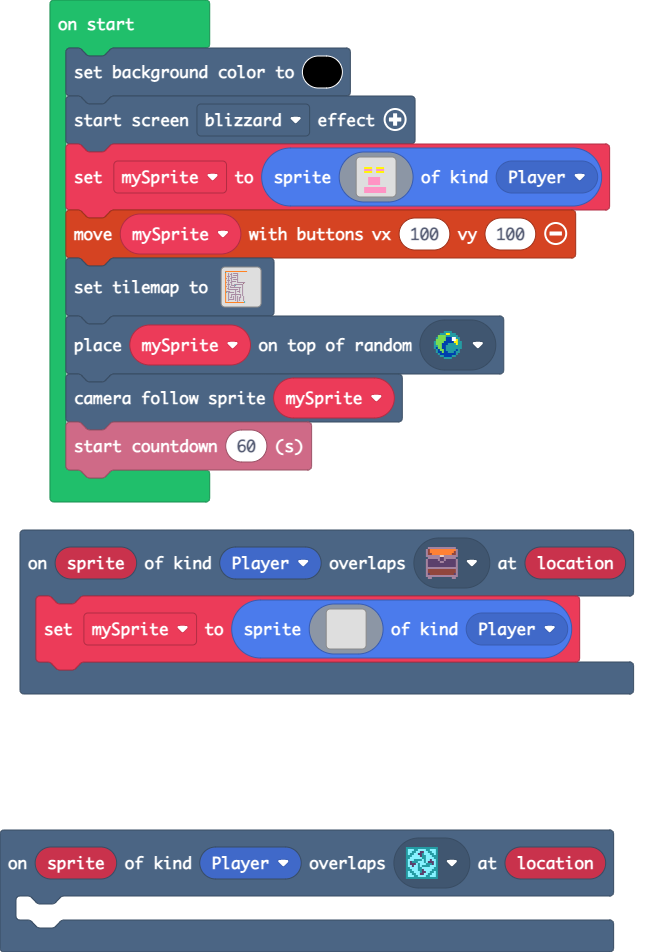
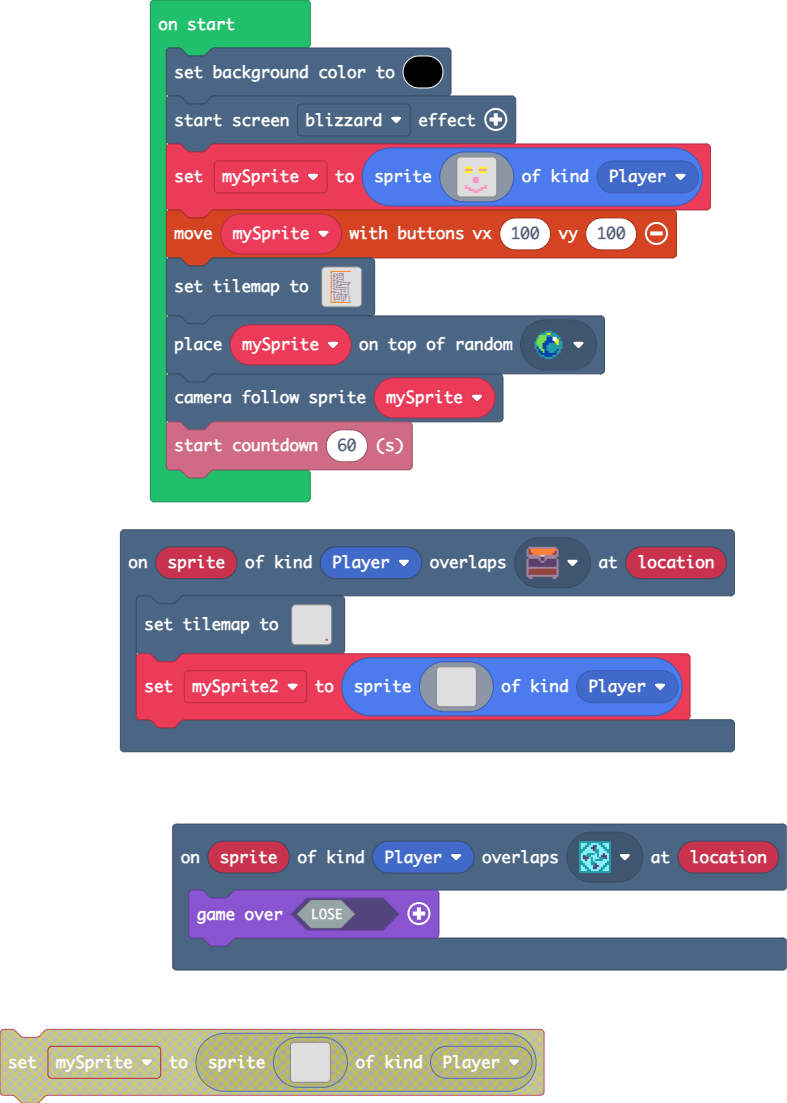
Update main.blocks, main.ts, tilemap.g.jres, tilemap.g.ts, images.g.jres, images.g.ts

diff --git a/tilemap.g.ts b/tilemap.g.ts
@@ -5,40 +5,59 @@ namespace myTiles {
 
     helpers._registerFactory("tilemap", function(name: string) {
         switch(helpers.stringTrim(name)) {
+            case "level2":
+            case "level2":return tiles.createTilemap(hex`1000100000000000000000000000000000000000000000000000000000000000000000000000000000000000000000000000000000000000000000000000000000000000000000000000000000000000000000000000000000000000000000000000000000000000000000000000000000000000000000000000000000000000000000000000000000000000000000000000000000000000000000000000000000000000000000000000000000000000000000000000000000000000000000000000000000000000000000000000000000000000000000000000000000000000000000000000000000000000000000000000000000000000000000000000000000000001`, img`
+. . . . . . . . . . . . . . . . 
+. . . . . . . . . . . . . . . . 
+. . . . . . . . . . . . . . . . 
+. . . . . . . . . . . . . . . . 
+. . . . . . . . . . . . . . . . 
+. . . . . . . . . . . . . . . . 
+. . . . . . . . . . . . . . . . 
+. . . . . . . . . . . . . . . . 
+. . . . . . . . . . . . . . . . 
+. . . . . . . . . . . . . . . . 
+. . . . . . . . . . . . . . . . 
+. . . . . . . . . . . . . . . . 
+. . . . . . . . . . . . . . . . 
+. . . . . . . . . . . . . . . . 
+. . . . . . . . . . . . . . . . 
+. . . . . . . . . . . . . . . . 
+`, [myTiles.transparency16,sprites.dungeon.chestOpen], TileScale.Sixteen);
             case "level1":
-            case "level1":return tiles.createTilemap(hex`2000200001010101010102010101010101010101010101010101000000000000000000000500000000000000000000000000000000000000000000000000000000000000010000030000030004040404030000000000000000000000000000000000000001000003000303000000000003000000000000000000000000000000000000000100000300000300040404040300000000000000000000000000000000000000010003030300030000000000030000000000000000000000000000000000000001000003000003040404040003000000000000000000000000000000000000000103000300030300000000000300000000000000000000000000000000000000010000030000030004040404030000000000000000000000000000000000000001000303030003000000000003000000000000000000000000000000000000000100000300000304040404000300000000000000000000000000000000000000010300030003030000000000030404040404040400000000000000000000000001000003000003000000000000000000000006000000000000000000000000000100030303000300000404040404040404030000000000000000000000000000010000030000040404040700000000000003000000000000000000000000000001030003000300000003000000000000000300000000000000000000000000000100000300040404040304040404030400030000000000000000000000000000010003030000000000000000000003000003000000000000000000000000000001000004040404040404030404000300000300000000000000000000000000000100000000000000000003000000030000030000000000000000000000000000010404040400000000000300040403000003000000000000000000000000000001070003040404040400030000000300000300000000000000000000000000000100000300000000000003000000000000030000000000000000000000000000010000030000040404040304040404040003000000000000000000000000000001000003000003000000030000000003000300000000000000000000000000000100000300000300030003000300000300000300000000000000000000000000010000030004030003000300030004030000030000000000000000000000000001000003000000000300030003000300000003000000000000000000000000000100000304040404040003000300030000000300000000000000000000000000010000030000000000000300030003000000030000000000000000000000000001000000000000000000000003000000000000070000000000000000000000000101010101010101010101010101010101010107000000000000000000000000`, img`
-2222222222222222222222..........
-................................
-2..2..2.22222...................
-2..2.22.....2...................
-2..2..2.22222...................
-2.222.2.....2...................
-2..2..22222.2...................
-22.2.22.....2...................
-2..2..2.22222...................
-2.222.2.....2...................
-2..2..22222.2...................
-22.2.22.....22222222............
-2..2..2.........................
-2.222.2..222222222..............
-2..2..2222.......2..............
-22.2.2...2.......2..............
-2..2.22222222222.2..............
-2.22..........2..2..............
-2..2222222222.2..2..............
-2.........2...2..2..............
-22222.....2.222..2..............
-2..222222.2...2..2..............
-2..2......2......2..............
-2..2..2222222222.2..............
-2..2..2...2....2.2..............
-2..2..2.2.2.2..2..2.............
-2..2.22.2.2.2.22..2.............
-2..2....2.2.2.2...2.............
-2..222222.2.2.2...2.............
-2..2......2.2.2...2.............
-2...........2...................
-2222222222222222222.............
+            case "level1":return tiles.createTilemap(hex`160020000101010101010201010101010101010101010101000005000000000000000000000000000000000000000000010000030000030004040404030000000000000000000100000300030300070000070300000000000000000001000703000003000404040403000000000000000000010003030300030000000000030000000000000000000100000300000304040404000300000000000000000001030003000303000000000003000000000000000000010000030000030004040404030000000000000000000100030303000300000000000300000000000000000001000003000003040404040003000000000000000000010300030003030700000700030404040404040400000100000300000300000007000000000000000600000001000303030003000004040404040404040307000000010000030000040404040700000000000003000000000103000300030000000300000000000000030000000001000003000404040403040404040304000300000000010003030000000000000000000003000003000000000100000404040404040403040400030000030000000001000000000000000000030000000300000300000000010404040400000000000300040403000003000000000107000304040404040003000000030000030000000001000003000000000000030000000000000300000000010000030000040404040304040404040003000000000100000300000300000003000000070300030000000001000003000003000300030003000703000003000000010000030004030003000300030004030000030000000100000300000000030003000300030000000300000001000003040404040400030003000300000003000000010000030000000000000300030003000000030000000100000007000007000000000300000000000007000001010101010101010101010101010101010101070000`, img`
+22222222222222222222..
+......................
+2..2..2.22222.........
+2..2.22.....2.........
+2..2..2.22222.........
+2.222.2.....2.........
+2..2..22222.2.........
+22.2.22.....2.........
+2..2..2.22222.........
+2.222.2.....2.........
+2..2..22222.2.........
+22.2.22.....22222222..
+2..2..2...............
+2.222.2..222222222....
+2..2..2222.......2....
+22.2.2...2.......2....
+2..2.22222222222.2....
+2.22..........2..2....
+2..2222222222.2..2....
+2.........2...2..2....
+22222.....2.222..2....
+2..222222.2...2..2....
+2..2......2......2....
+2..2..2222222222.2....
+2..2..2...2....2.2....
+2..2..2.2.2.2..2..2...
+2..2.22.2.2.2.22..2...
+2..2....2.2.2.2...2...
+2..222222.2.2.2...2...
+2..2......2.2.2...2...
+2...........2.........
+2222222222222222222...
 `, [myTiles.transparency16,sprites.dungeon.hazardLava1,sprites.dungeon.hazardLava0,sprites.vehicle.roadVertical,sprites.vehicle.roadHorizontal,sprites.dungeon.collectibleBlueCrystal,sprites.dungeon.chestOpen,sprites.dungeon.collectibleInsignia], TileScale.Sixteen);
         }
         return null;

diff --git a/images.g.ts b/images.g.ts
@@ -3,24 +3,6 @@ namespace myImages {
 
     helpers._registerFactory("image", function(name: string) {
         switch(helpers.stringTrim(name)) {
-            case "image1":return img`
-. . . . . . . . . . . . . . . . 
-. . . . . . . . . . . . . . . . 
-. . . . . . . . . . . . . . . . 
-. . 5 5 5 5 . . 5 5 5 5 . . . . 
-. . 3 3 3 3 . . 3 3 3 3 . . . . 
-. . 5 5 5 5 . . 5 5 5 5 . . . . 
-. . . . . . . . . . . . . . . . 
-. . . . . . . . . . . . . . . . 
-. . . . 3 3 3 3 3 3 . . . . . . 
-. . . . 3 3 3 3 3 3 . . . . . . 
-. . . . 3 3 3 3 3 3 . . . . . . 
-. . . . 3 3 3 3 3 3 . . . . . . 
-. . . . . . . . . . . . . . . . 
-. . 3 3 3 3 3 3 3 3 3 3 3 . . . 
-. . 3 3 3 3 3 3 3 3 3 3 3 . . . 
-. . 3 3 3 3 3 3 3 3 3 3 3 . . . 
-`;
             case "image2":return img`
 . . . . . . . . . . . . . . . . 
 . . . . . . . . . . . . . . . . 
@@ -38,6 +20,42 @@ namespace myImages {
 . . . . . . . . . . . . . . . . 
 . . . . . . . . . . . . . . . . 
 . . . . . . . . . . . . . . . . 
+`;
+            case "image3":return img`
+. . . . . . . . . . . . . . . . 
+. . . . . . . . . . . . . . . . 
+. . . . . . . . . . . . . . . . 
+. . . . . . . . . . . . . . . . 
+. . . . . . . . . . . . . . . . 
+. . . . . . . . . . . . . . . . 
+. . . . . . . . . . . . . . . . 
+. . . . . . . . . . . . . . . . 
+. . . . . . . . . . . . . . . . 
+. . . . . . . . . . . . . . . . 
+. . . . . . . . . . . . . . . . 
+. . . . . . . . . . . . . . . . 
+. . . . . . . . . . . . . . . . 
+. . . . . . . . . . . . . . . . 
+. . . . . . . . . . . . . . . . 
+. . . . . . . . . . . . . . . . 
+`;
+            case "image1":return img`
+. . . . . . . . . . . . . . . . 
+. . . . . . . . . . . . . . . . 
+. . . . . . . . . . . . . . . . 
+. . 5 5 5 5 . . . 5 5 5 5 . . . 
+. . 3 3 3 3 . . . 3 3 3 3 . . . 
+. . 5 5 5 5 . . . 5 5 5 5 . . . 
+. . . . . . . . . . . . . . . . 
+. . . . . . . . . . . . . . . . 
+. . . . . . 3 3 3 . . . . . . . 
+. . . . . . 3 3 3 . . . . . . . 
+. . . . . . 3 3 3 . . . . . . . 
+. . . . . . . . . . . . . . . . 
+. . 3 . . . . . . . . . 3 . . . 
+. . 3 3 3 . . . . . 3 3 3 . . . 
+. . . . 3 3 3 . 3 3 3 . . . . . 
+. . . . . . 3 3 3 . . . . . . . 
 `;
         }
         return null;

diff --git a/main.ts b/main.ts
@@ -1,5 +1,6 @@
 scene.onOverlapTile(SpriteKind.Player, sprites.dungeon.chestOpen, function (sprite, location) {
-    mySprite = sprites.create(img`
+    tiles.setTilemap(tilemap`level2`)
+    mySprite2 = sprites.create(img`
         . . . . . . . . . . . . . . . . 
         . . . . . . . . . . . . . . . . 
         . . . . . . . . . . . . . . . . 
@@ -19,28 +20,28 @@ scene.onOverlapTile(SpriteKind.Player, sprites.dungeon.chestOpen, function (spri
         `, SpriteKind.Player)
 })
 scene.onOverlapTile(SpriteKind.Player, sprites.dungeon.collectibleInsignia, function (sprite, location) {
-	
+    game.over(false)
 })
-let mySprite: Sprite = null
+let mySprite2: Sprite = null
 scene.setBackgroundColor(15)
 effects.blizzard.startScreenEffect()
-mySprite = sprites.create(img`
+let mySprite = sprites.create(img`
     . . . . . . . . . . . . . . . . 
     . . . . . . . . . . . . . . . . 
     . . . . . . . . . . . . . . . . 
-    . . 5 5 5 5 . . 5 5 5 5 . . . . 
-    . . 3 3 3 3 . . 3 3 3 3 . . . . 
-    . . 5 5 5 5 . . 5 5 5 5 . . . . 
+    . . 5 5 5 5 . . . 5 5 5 5 . . . 
+    . . 3 3 3 3 . . . 3 3 3 3 . . . 
+    . . 5 5 5 5 . . . 5 5 5 5 . . . 
     . . . . . . . . . . . . . . . . 
     . . . . . . . . . . . . . . . . 
-    . . . . 3 3 3 3 3 3 . . . . . . 
-    . . . . 3 3 3 3 3 3 . . . . . . 
-    . . . . 3 3 3 3 3 3 . . . . . . 
-    . . . . 3 3 3 3 3 3 . . . . . . 
+    . . . . . . 3 3 3 . . . . . . . 
+    . . . . . . 3 3 3 . . . . . . . 
+    . . . . . . 3 3 3 . . . . . . . 
     . . . . . . . . . . . . . . . . 
-    . . 3 3 3 3 3 3 3 3 3 3 3 . . . 
-    . . 3 3 3 3 3 3 3 3 3 3 3 . . . 
-    . . 3 3 3 3 3 3 3 3 3 3 3 . . . 
+    . . 3 . . . . . . . . . 3 . . . 
+    . . 3 3 3 . . . . . 3 3 3 . . . 
+    . . . . 3 3 3 . 3 3 3 . . . . . 
+    . . . . . . 3 3 3 . . . . . . . 
     `, SpriteKind.Player)
 controller.moveSprite(mySprite, 100, 100)
 tiles.setTilemap(tilemap`level1`)
